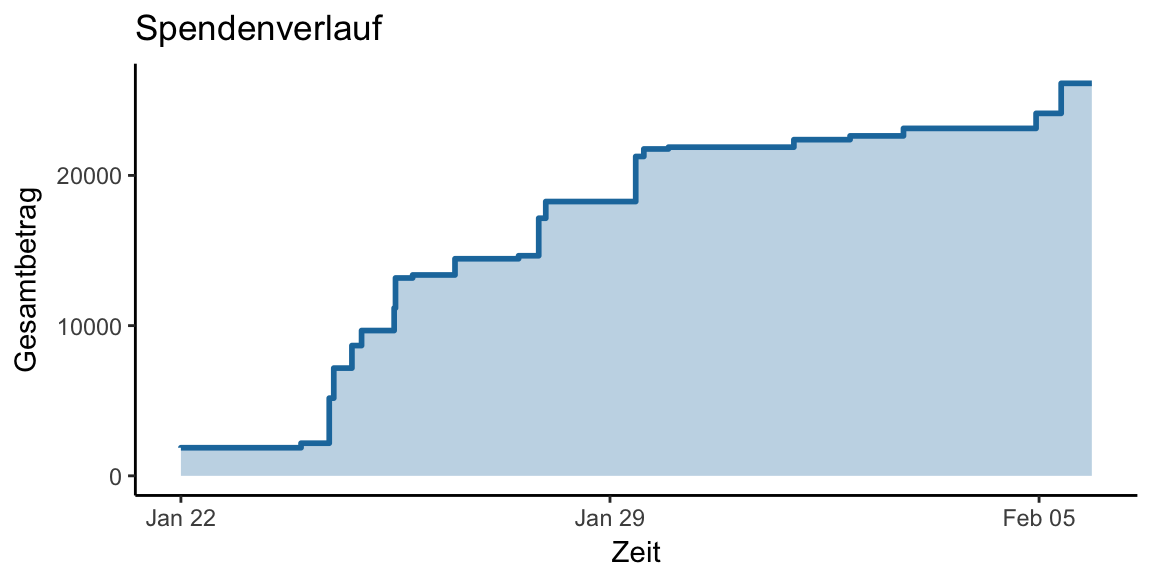
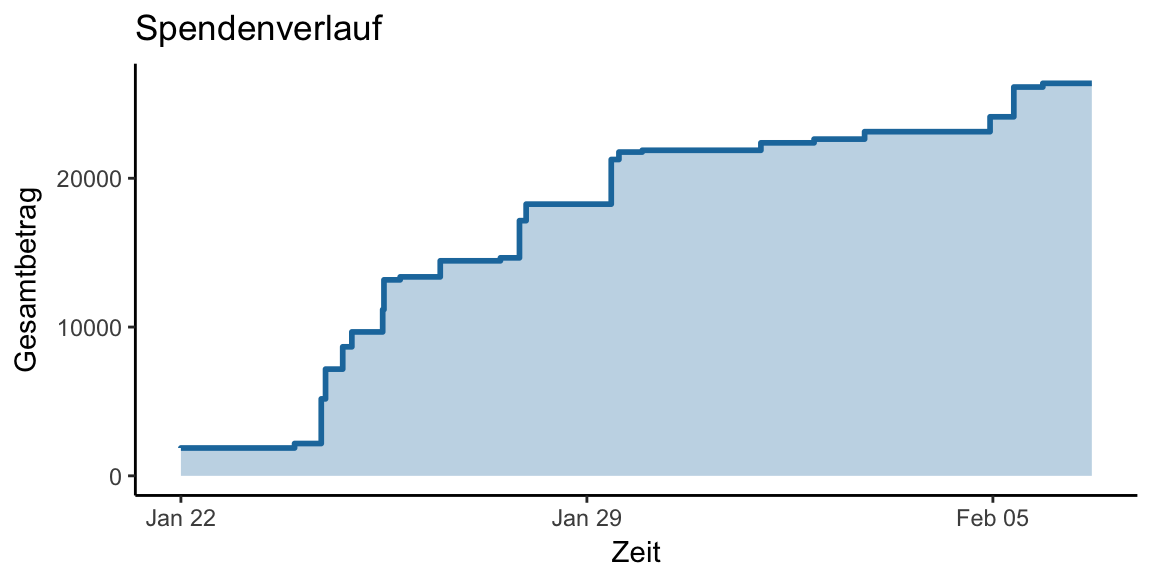
tiru

diff --git a/Results.html b/Results.html
@@ -224,7 +224,7 @@ $(document).ready(function () {
 
 
 <p align="right" class="text-primary">
-Stand: 05.02.2018 22:30
+Stand: 06.02.2018 21:33
 </p>
 <p> </p>
 <p> </p>
@@ -258,7 +258,7 @@ Spende
 Spende bei Zuschlag
 </td>
 <td style="text-align:right;">
-22839
+23089
 </td>
 </tr>
 <tr>
@@ -282,7 +282,7 @@ Für unser eigenes Zentrum
 Gesamt
 </td>
 <td style="text-align:right;font-weight: bold;color: white;background-color: #1F79AB;">
-26131
+26381
 </td>
 </tr>
 </tbody>
@@ -292,7 +292,7 @@ Gesamt
 <div class="card text-white bg-primary mb-3" style="max-width: 80rem;">
   <div class="card-body" align="center">
     &nbsp;
-    <p class="card-text" align="center"> <b>17</b> Leute haben bisher <b>26131 €</b> gespendet oder zugesagt!</p>
+    <p class="card-text" align="center"> <b>18</b> Leute haben bisher <b>26381 €</b> gespendet oder zugesagt!</p>
     &nbsp; 
   </div>
 </div>
